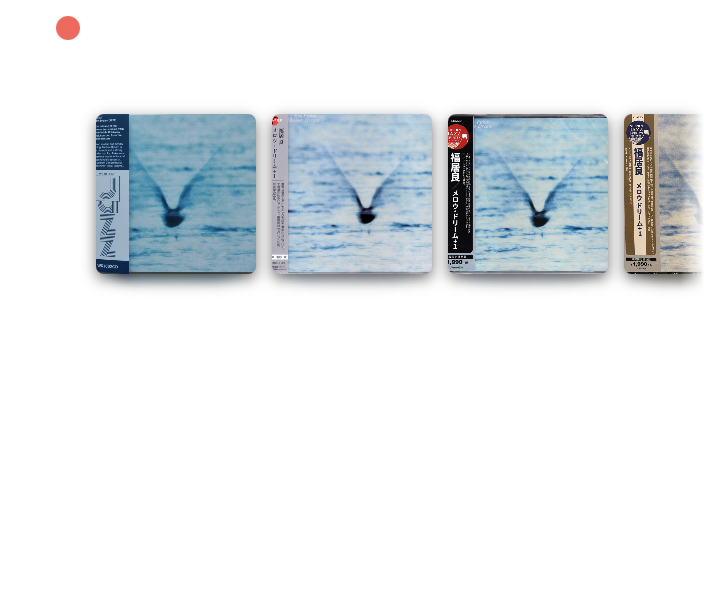
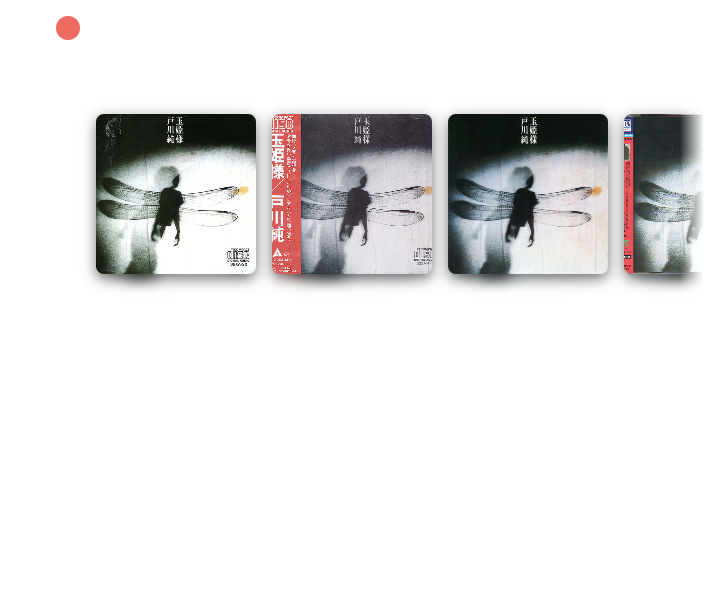
Update screenshots

Changed region(s): [[0.125, 0.1869, 1.0, 0.4672]]

diff --git a/utai/index.html b/utai/index.html
@@ -16,17 +16,17 @@
     </script>
     <div class="outter_page_3 bordered">
         <div class="inner_page_3"> 
-            <img src="screenshots/screenshot_page_3_1.png" width="348" class="screenshot_page_3_img item" />
+            <img src="screenshots/screenshot_page_3_1.png" width="488" class="screenshot_page_3_img item" />
         </div>
     </div>
     <div class="outter_page_3 bordered">
         <div class="inner_page_3"> 
-            <img src="screenshots/screenshot_page_3_2.png" width="411" class="screenshot_page_3_img item" />
+            <img src="screenshots/screenshot_page_3_2.png" width="488" class="screenshot_page_3_img item" />
         </div>
     </div>
     <div class="outter_page_3 bordered">
         <div class="inner_page_3"> 
-            <img src="screenshots/screenshot_page_3_3.png" width="411" class="screenshot_page_3_img item" />
+            <img src="screenshots/screenshot_page_3_3.png" width="488" class="screenshot_page_3_img item" />
         </div>
     </div>
     <div class="outter_page_2 bordered">
